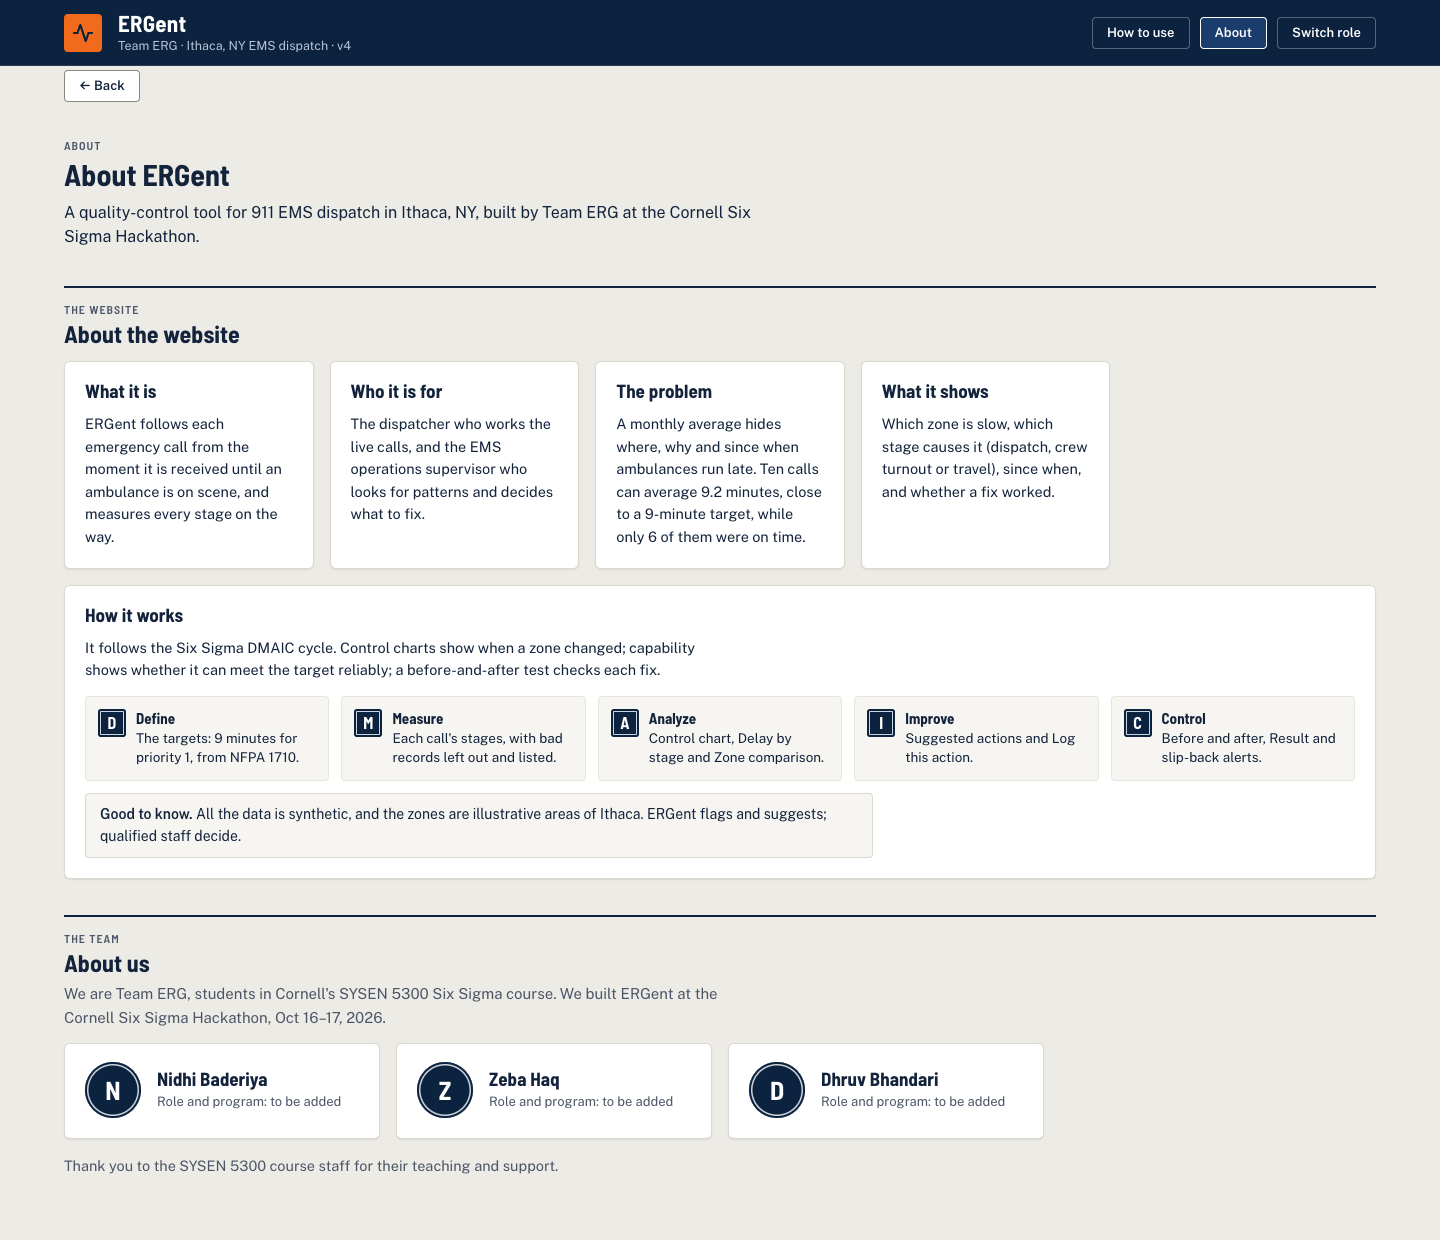
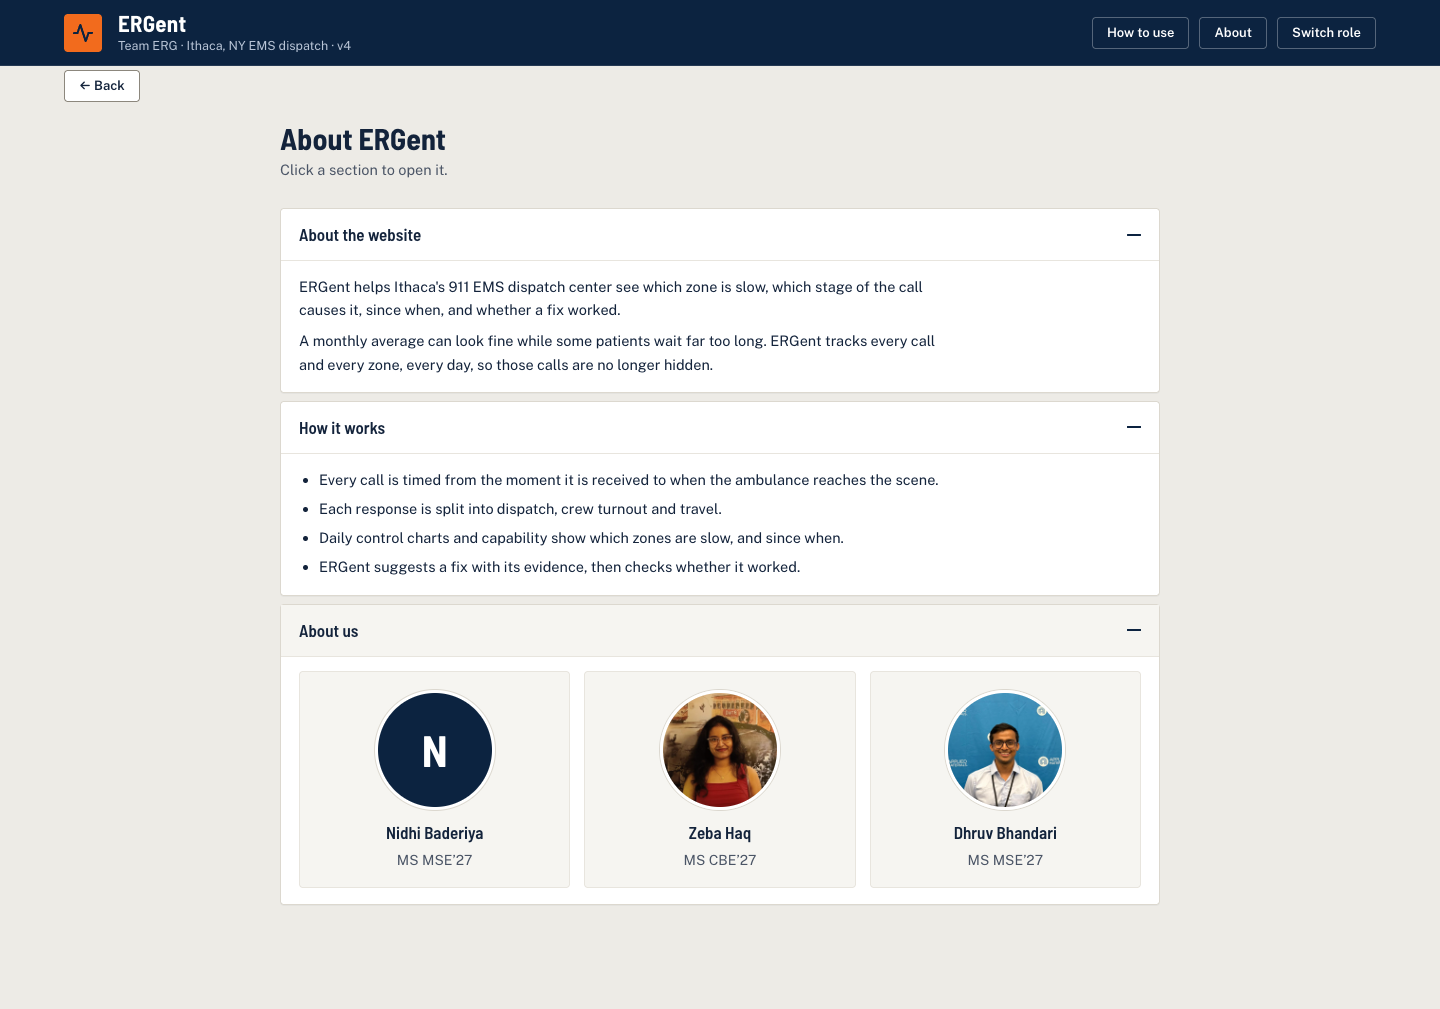
Submission: fresh How to use and About screenshots; Devpost wording

Changed region(s): [[0.0, 0.0, 1.0, 0.9524]]

diff --git a/submission/devpost.md b/submission/devpost.md
@@ -58,7 +58,7 @@ The tool flags and suggests. Qualified staff decide.
   - road works slowing travel in Zone C at rush hour;
   - an evening dispatcher bottleneck;
   - an ambulance that keeps breaking down.
-- **The app.** Shiny for Python (Core), matplotlib SVG charts with hover tooltips, and a Leaflet map of Ithaca. It is deployed on the course's Posit Connect server.
+- **The app.** Shiny for Python (Core), matplotlib charts with hover text, and a Leaflet map of Ithaca, deployed on the course's Posit Connect server.
 - **AI as a teammate.** We used an AI coding agent under a written contract (`CONTRACT.yaml`) and a spec (`SPEC.md`). The team reviewed every design decision and can explain every number.
 
 ### Challenges we ran into
